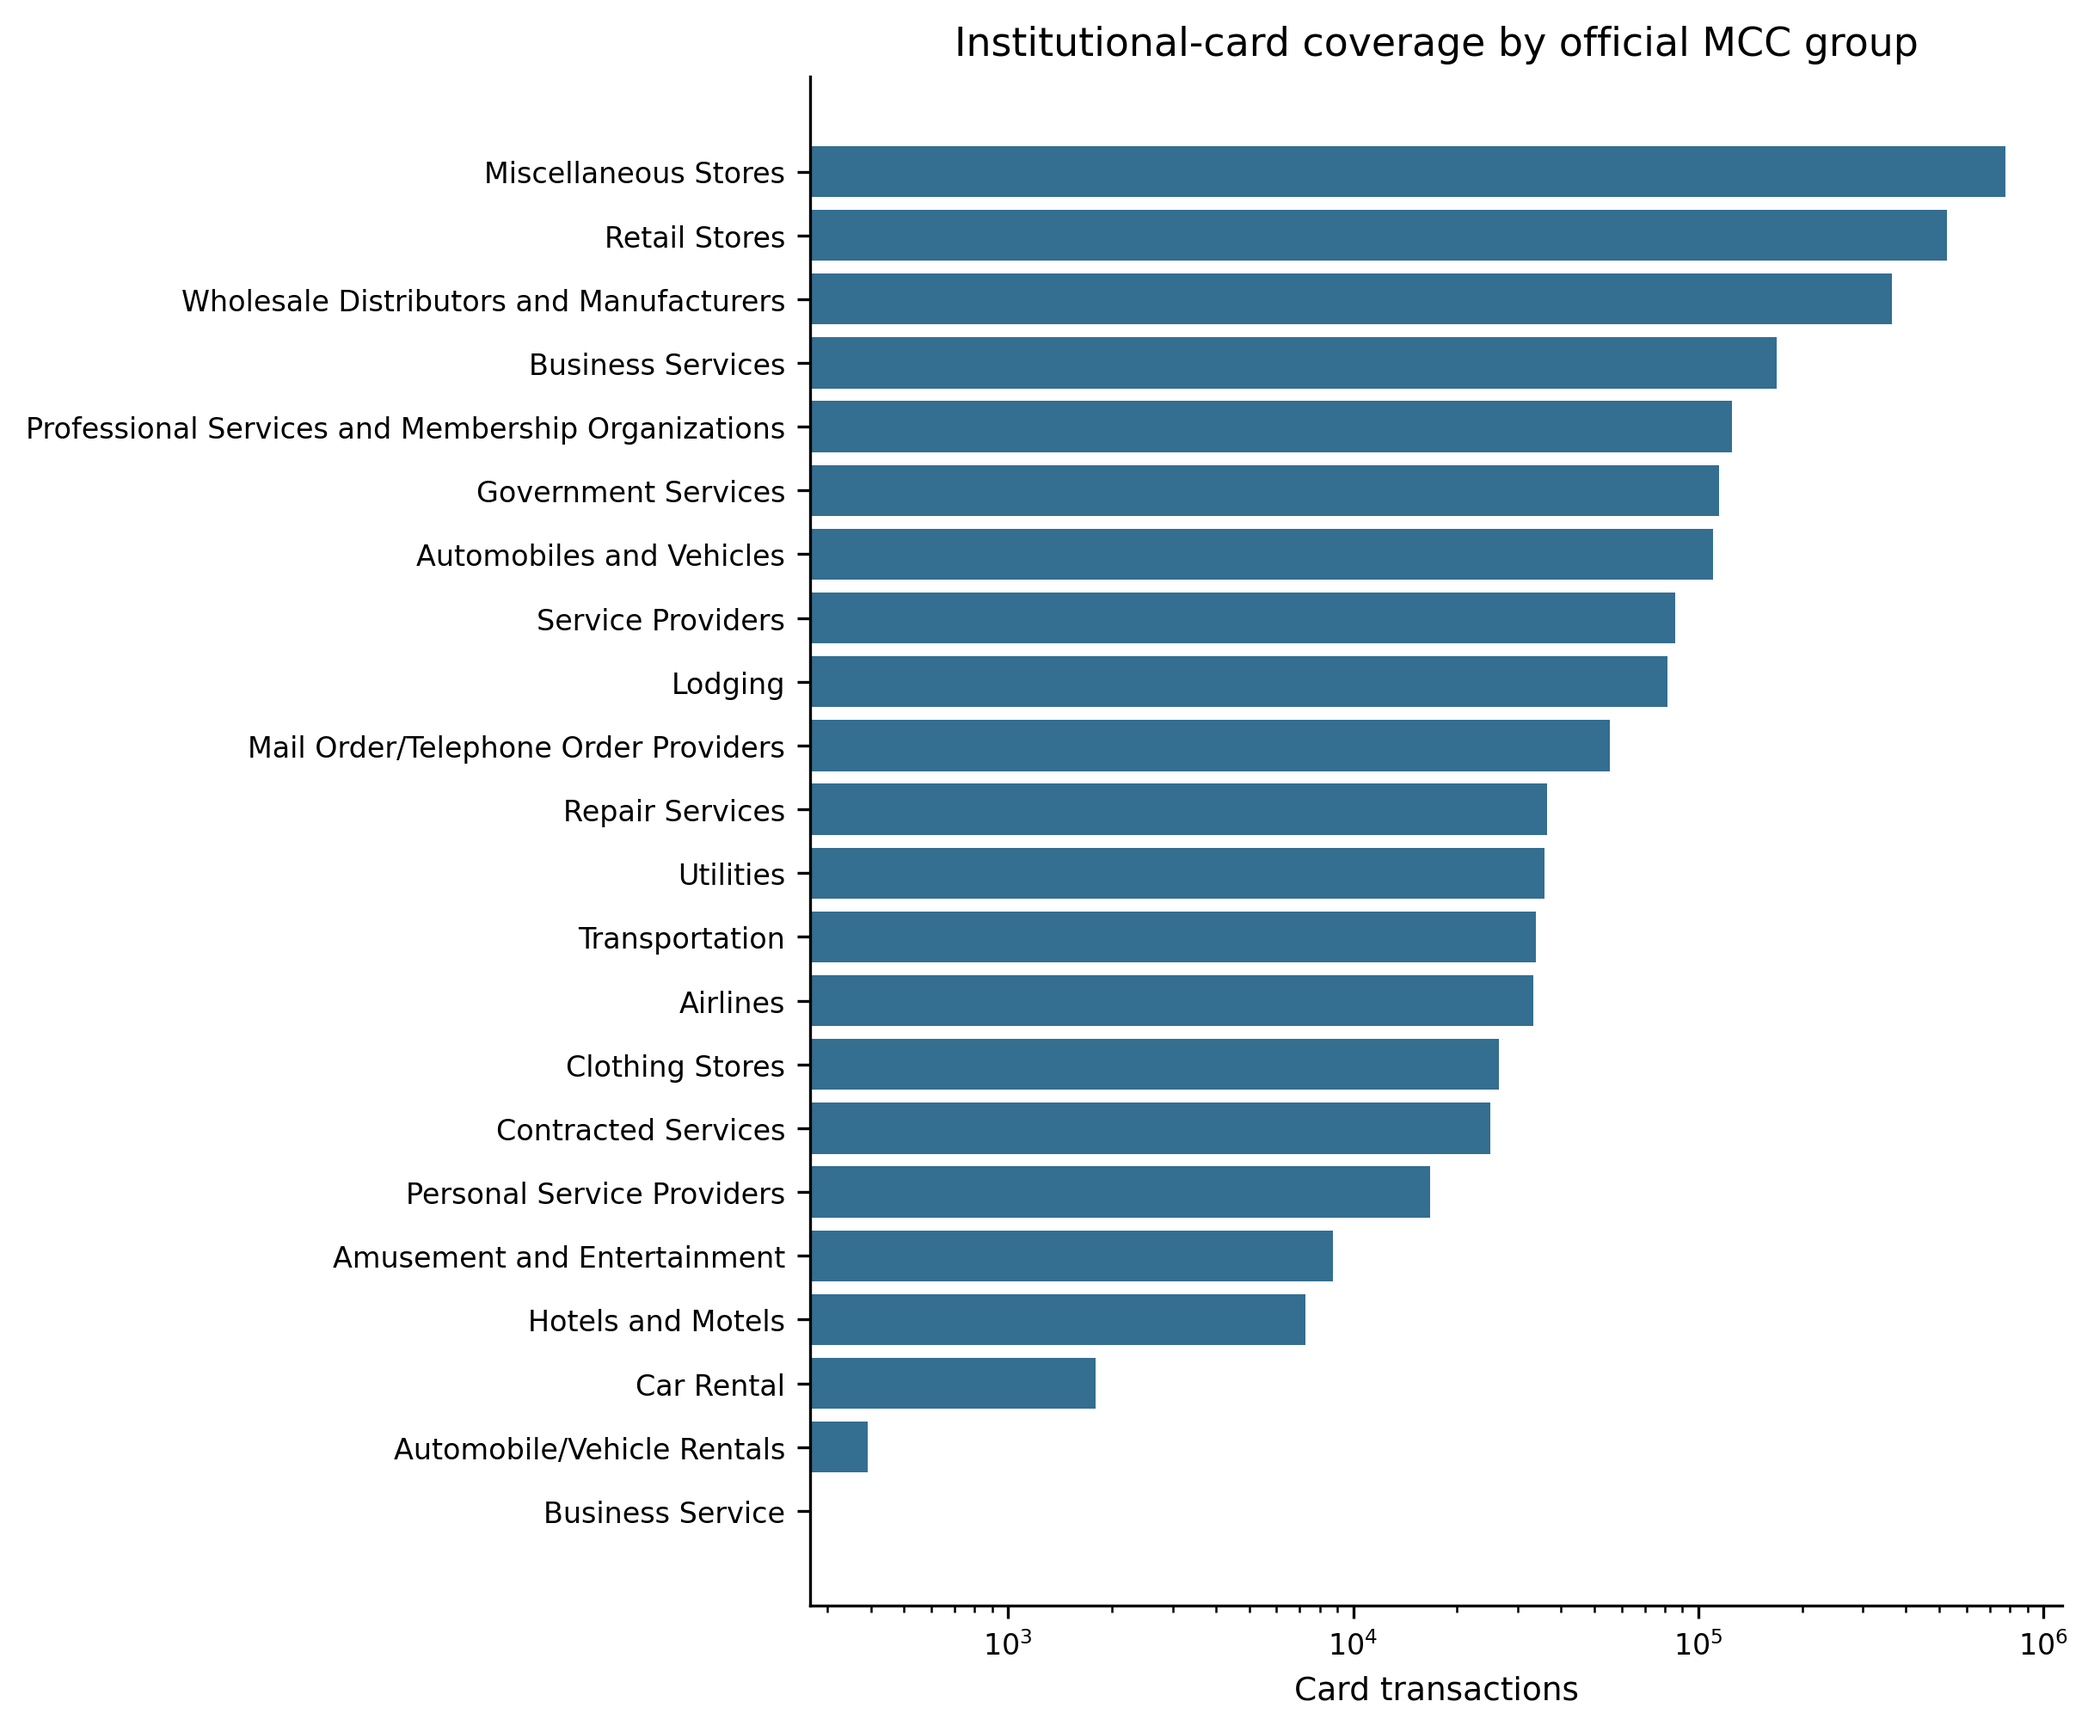
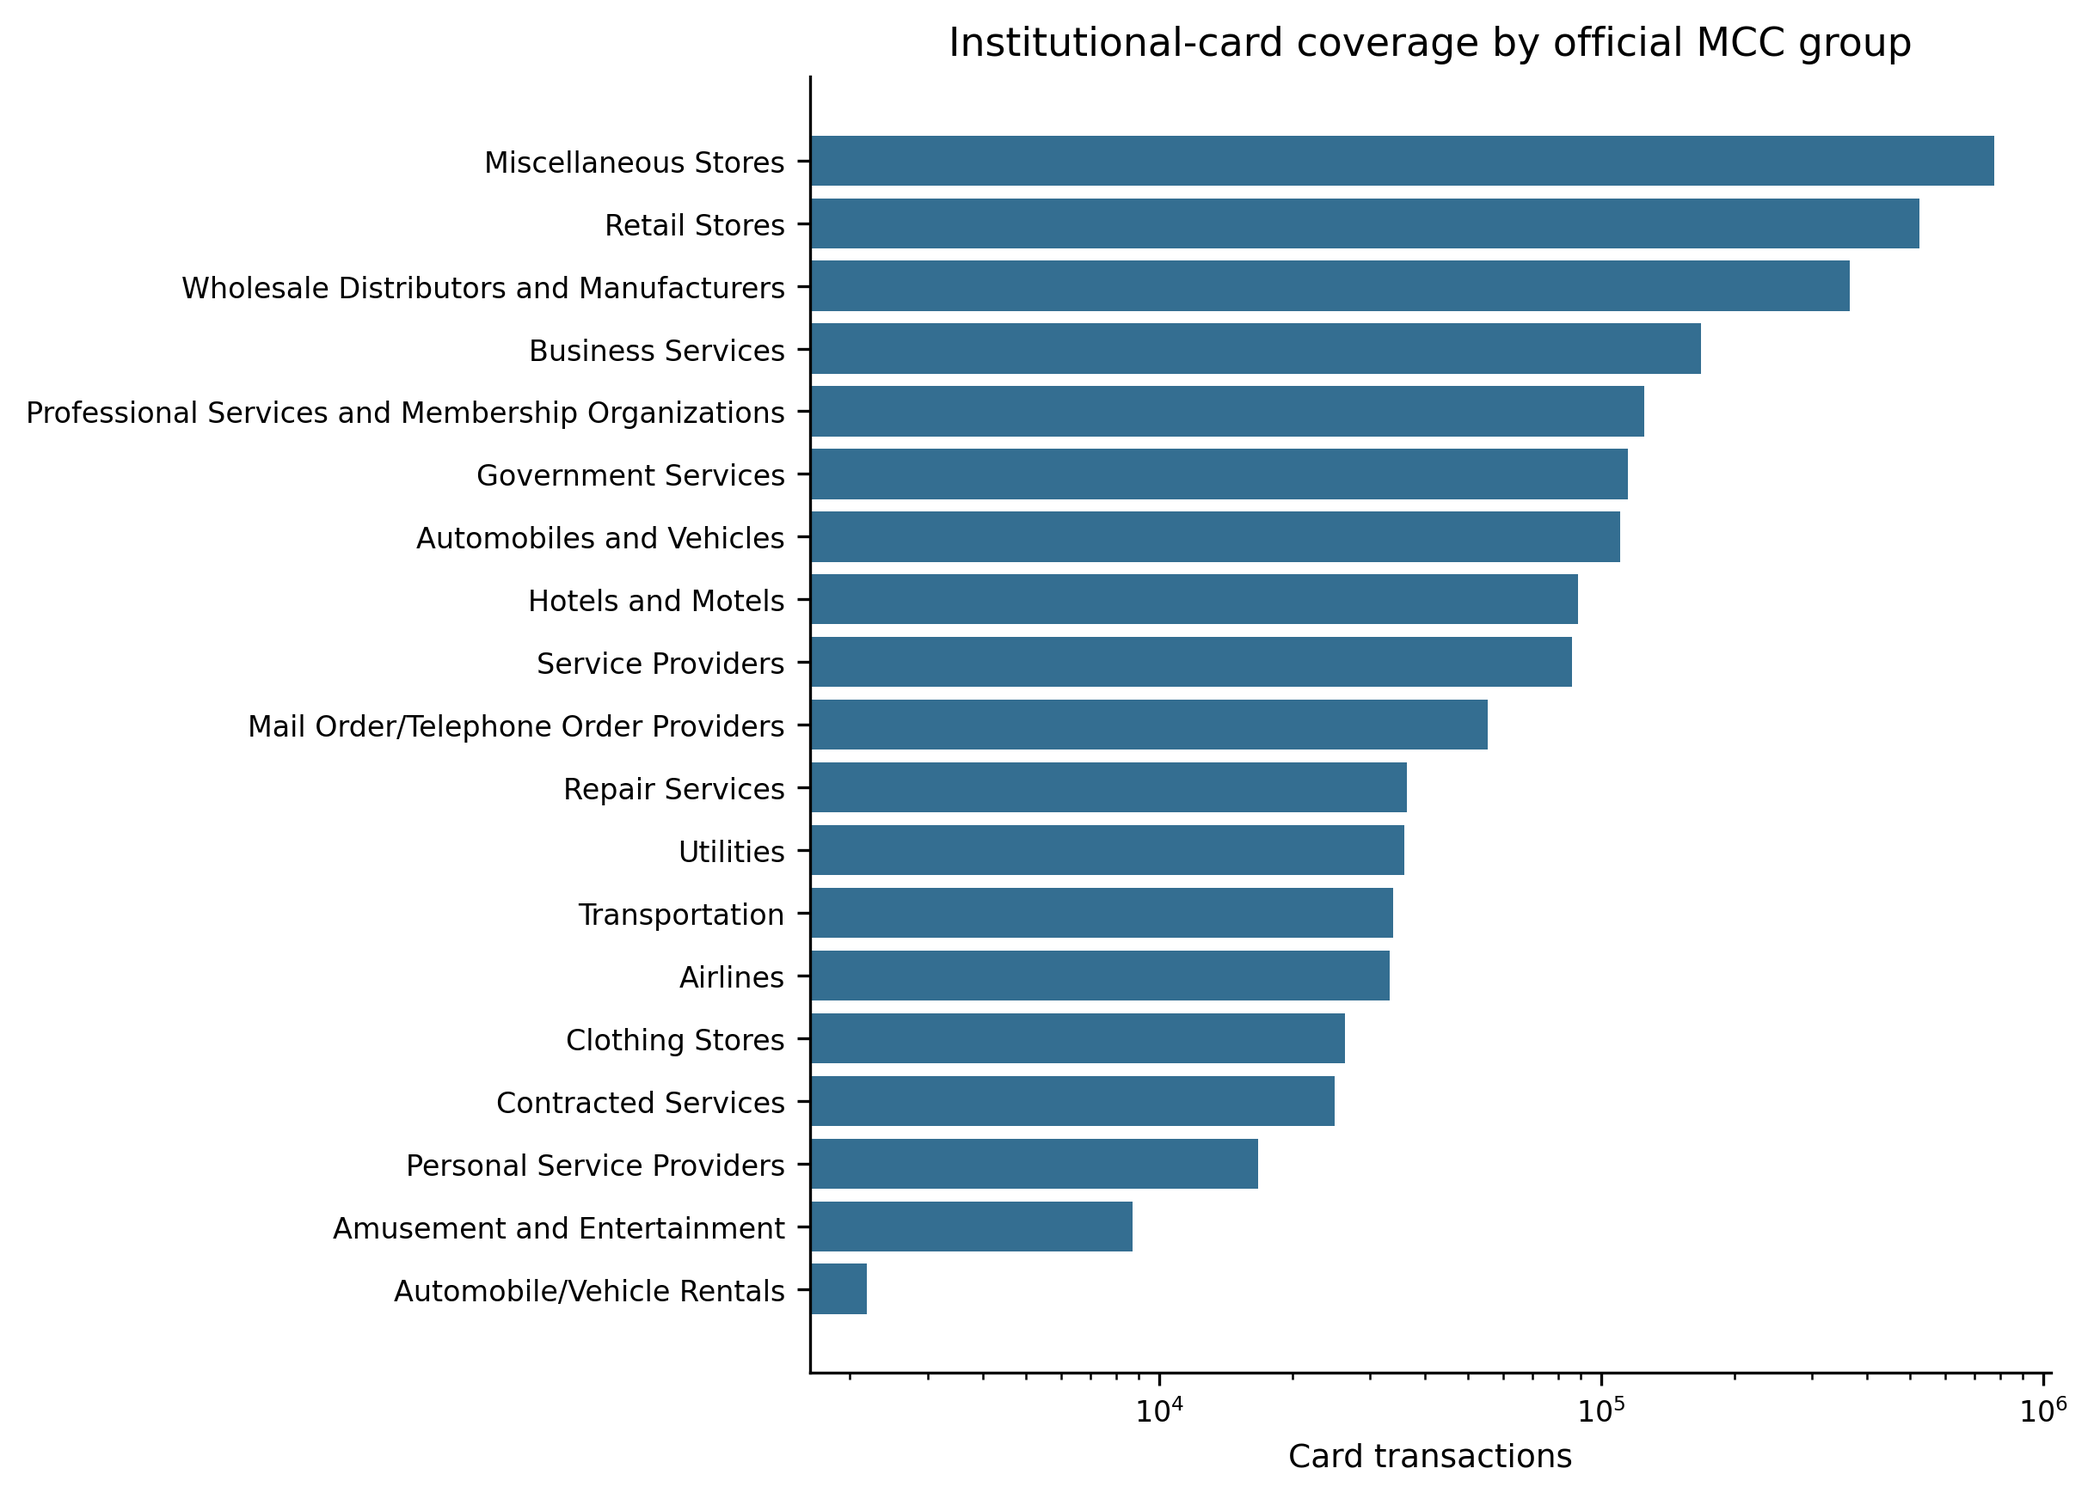
Complete profiling stage descriptive

Changed region(s): [[0.0, 0.0, 0.9676, 0.9908], [0.1248, 0.4025, 0.2185, 0.4335], [0.9676, 0.9289, 0.9988, 0.9599]]

diff --git a/outputs/reports/09_coverage.md b/outputs/reports/09_coverage.md
@@ -8,7 +8,7 @@ Method: Institutional card_txn records, linked official groups, unique loose mer
 
 Limitations: Coverage is conditional on accepted MCC linkage and uncertain merchant resolution. Academic MoneyData and IPO are excluded from institutional-card coverage. Observed absence cannot establish an institutional prohibition. Consumer/B2B orientation is an analyst-defined descriptive grouping, not a network taxonomy or observed purchaser identity.
 
-The official reference supplies 22 upper groups. Under the requested rule (<100 transactions OR <20 merchant keys), 1 groups are weakly represented and 1 have no observed linked institutional-card transactions (`coverage_by_group.csv`).
+The official reference supplies 19 upper groups. Under the requested rule (<100 transactions OR <20 merchant keys), 0 groups are weakly represented and 0 have no observed linked institutional-card transactions (`coverage_by_group.csv`).
 
-Codes 6010, 6011 and 7995 are checked explicitly in `policy_sensitive_code_totals.csv`, including zero totals. Classification into B2B-oriented uses only Wholesale Distributors and Manufacturers; consumer-adjacent uses the published groups Airlines, Car Rental, Lodging, Clothing Stores, Retail Stores, Miscellaneous Stores, Personal Service Providers, Transportation. All other categories remain mixed_or_unknown. This coarse orientation rule is separate from MCC reference linkage and does not create a task-specific spending taxonomy.
+Codes 6010, 6011 and 7995 are checked explicitly in `policy_sensitive_code_totals.csv`, including zero totals. Classification into B2B-oriented uses only Wholesale Distributors and Manufacturers; consumer-adjacent uses the published groups Airlines, Automobile/Vehicle Rentals, Hotels and Motels, Clothing Stores, Retail Stores, Miscellaneous Stores, Personal Service Providers, Transportation. All other categories remain mixed_or_unknown. This coarse orientation rule is separate from MCC reference linkage and does not create a task-specific spending taxonomy.
 
